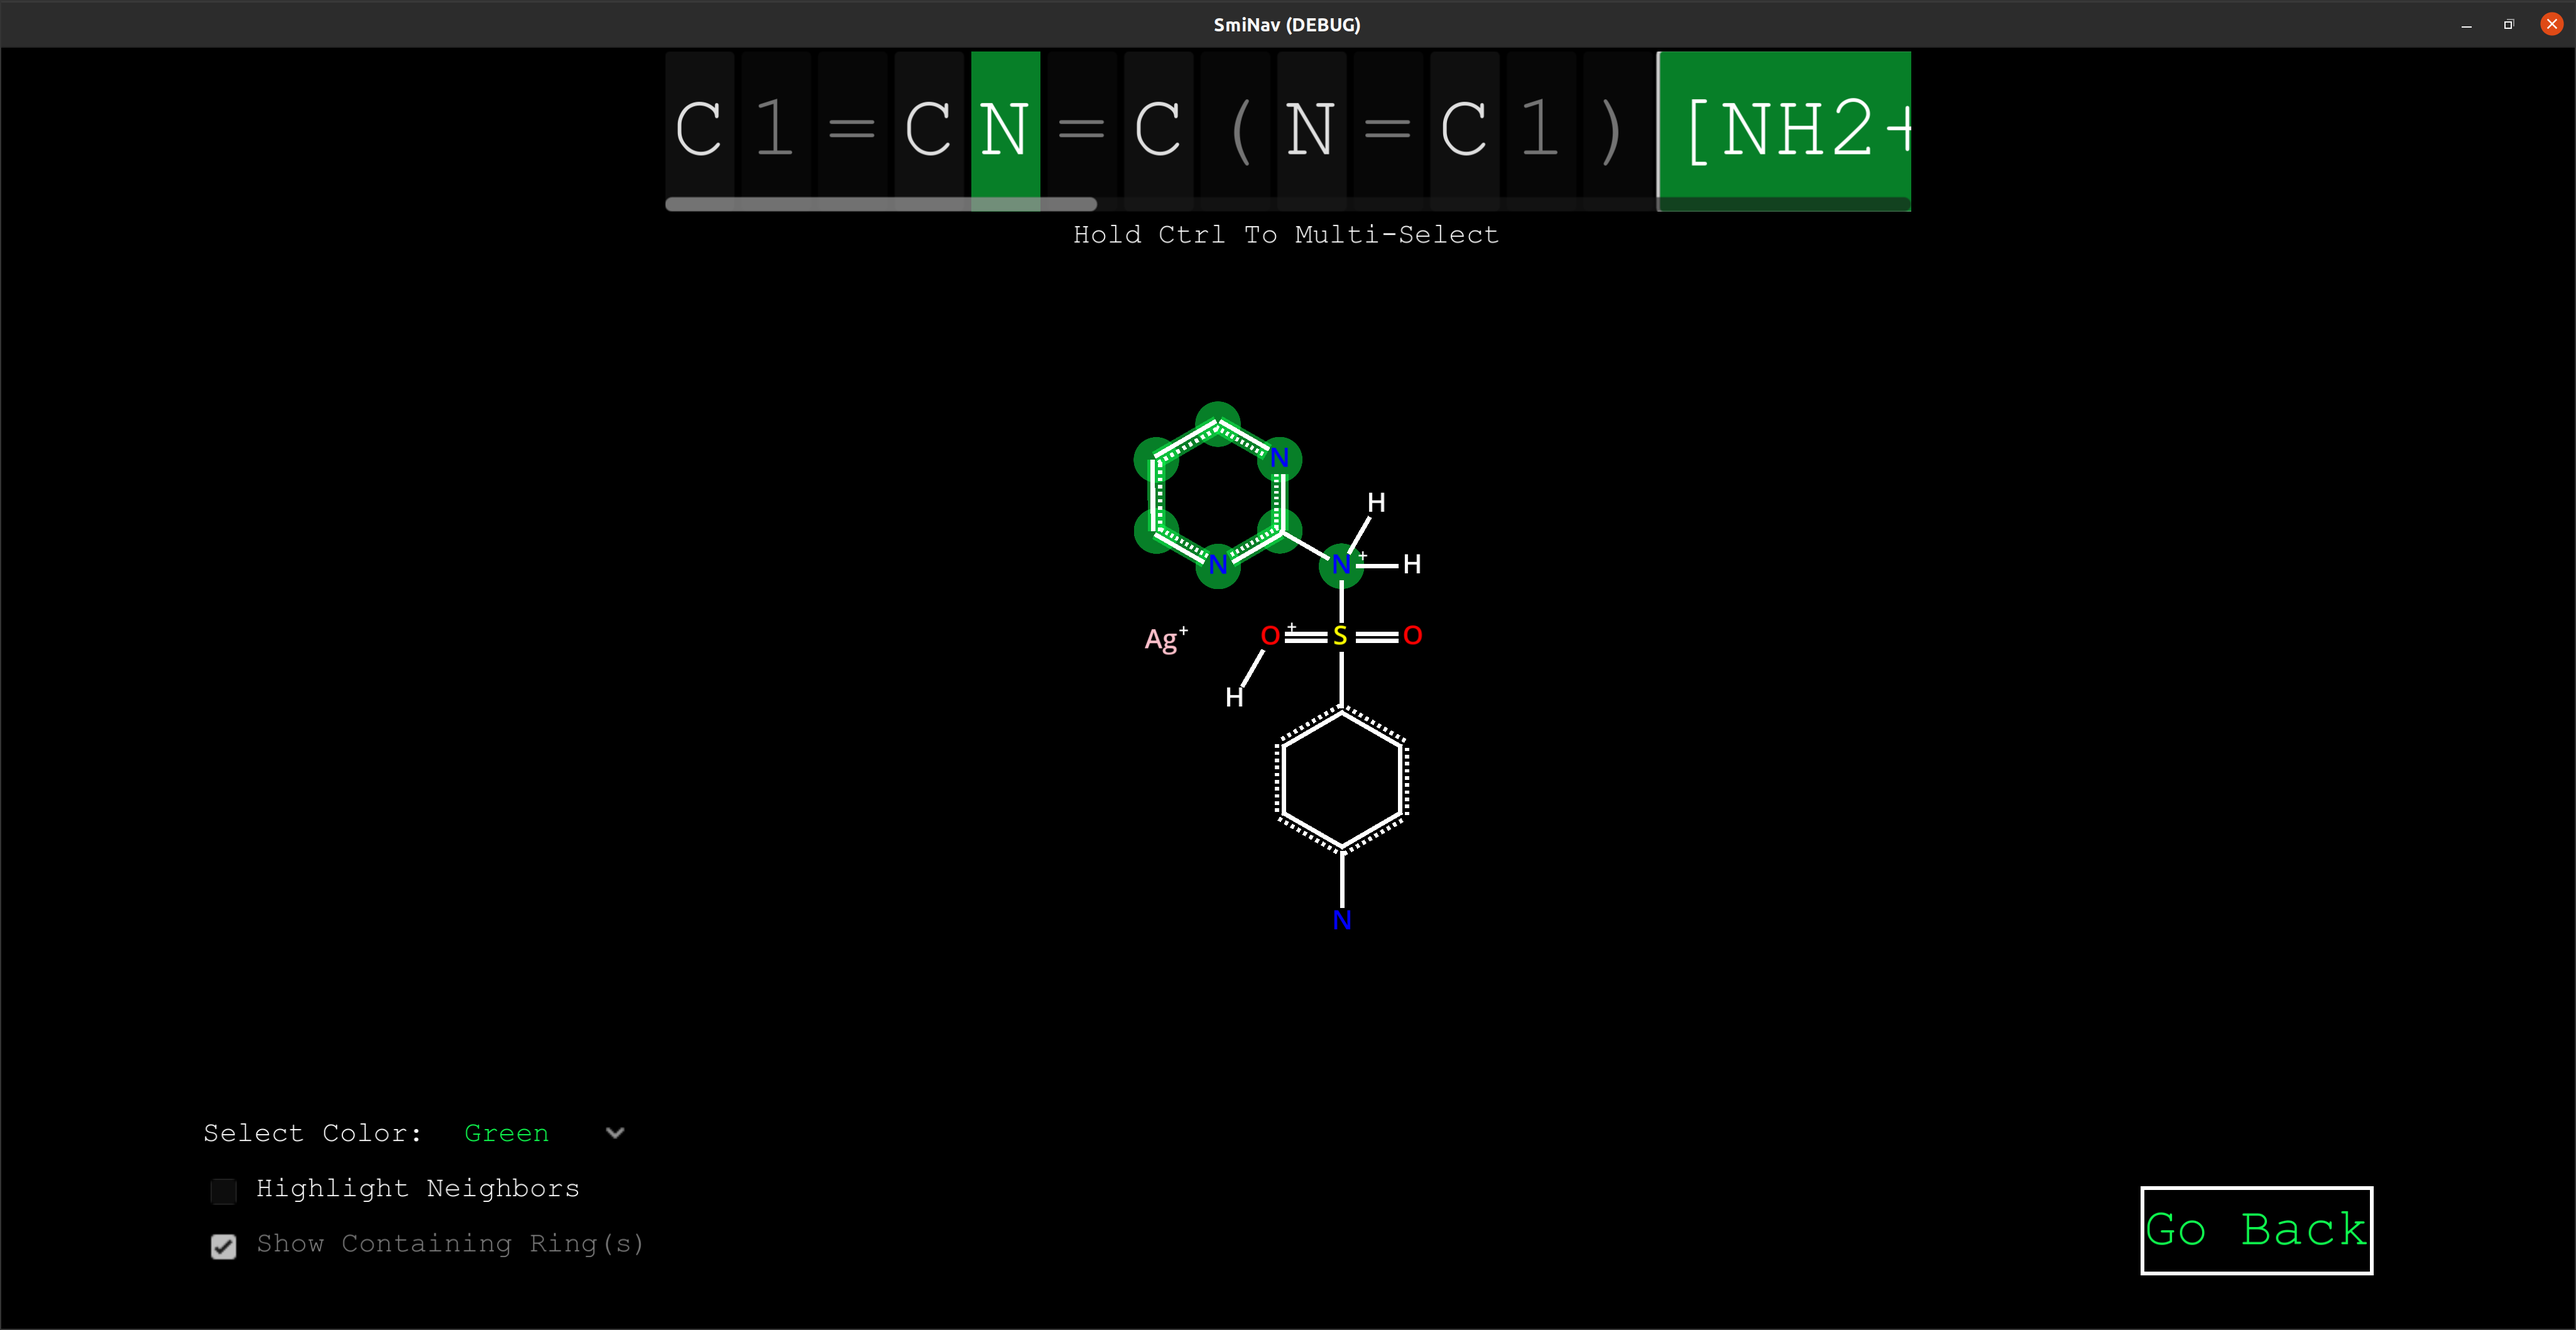
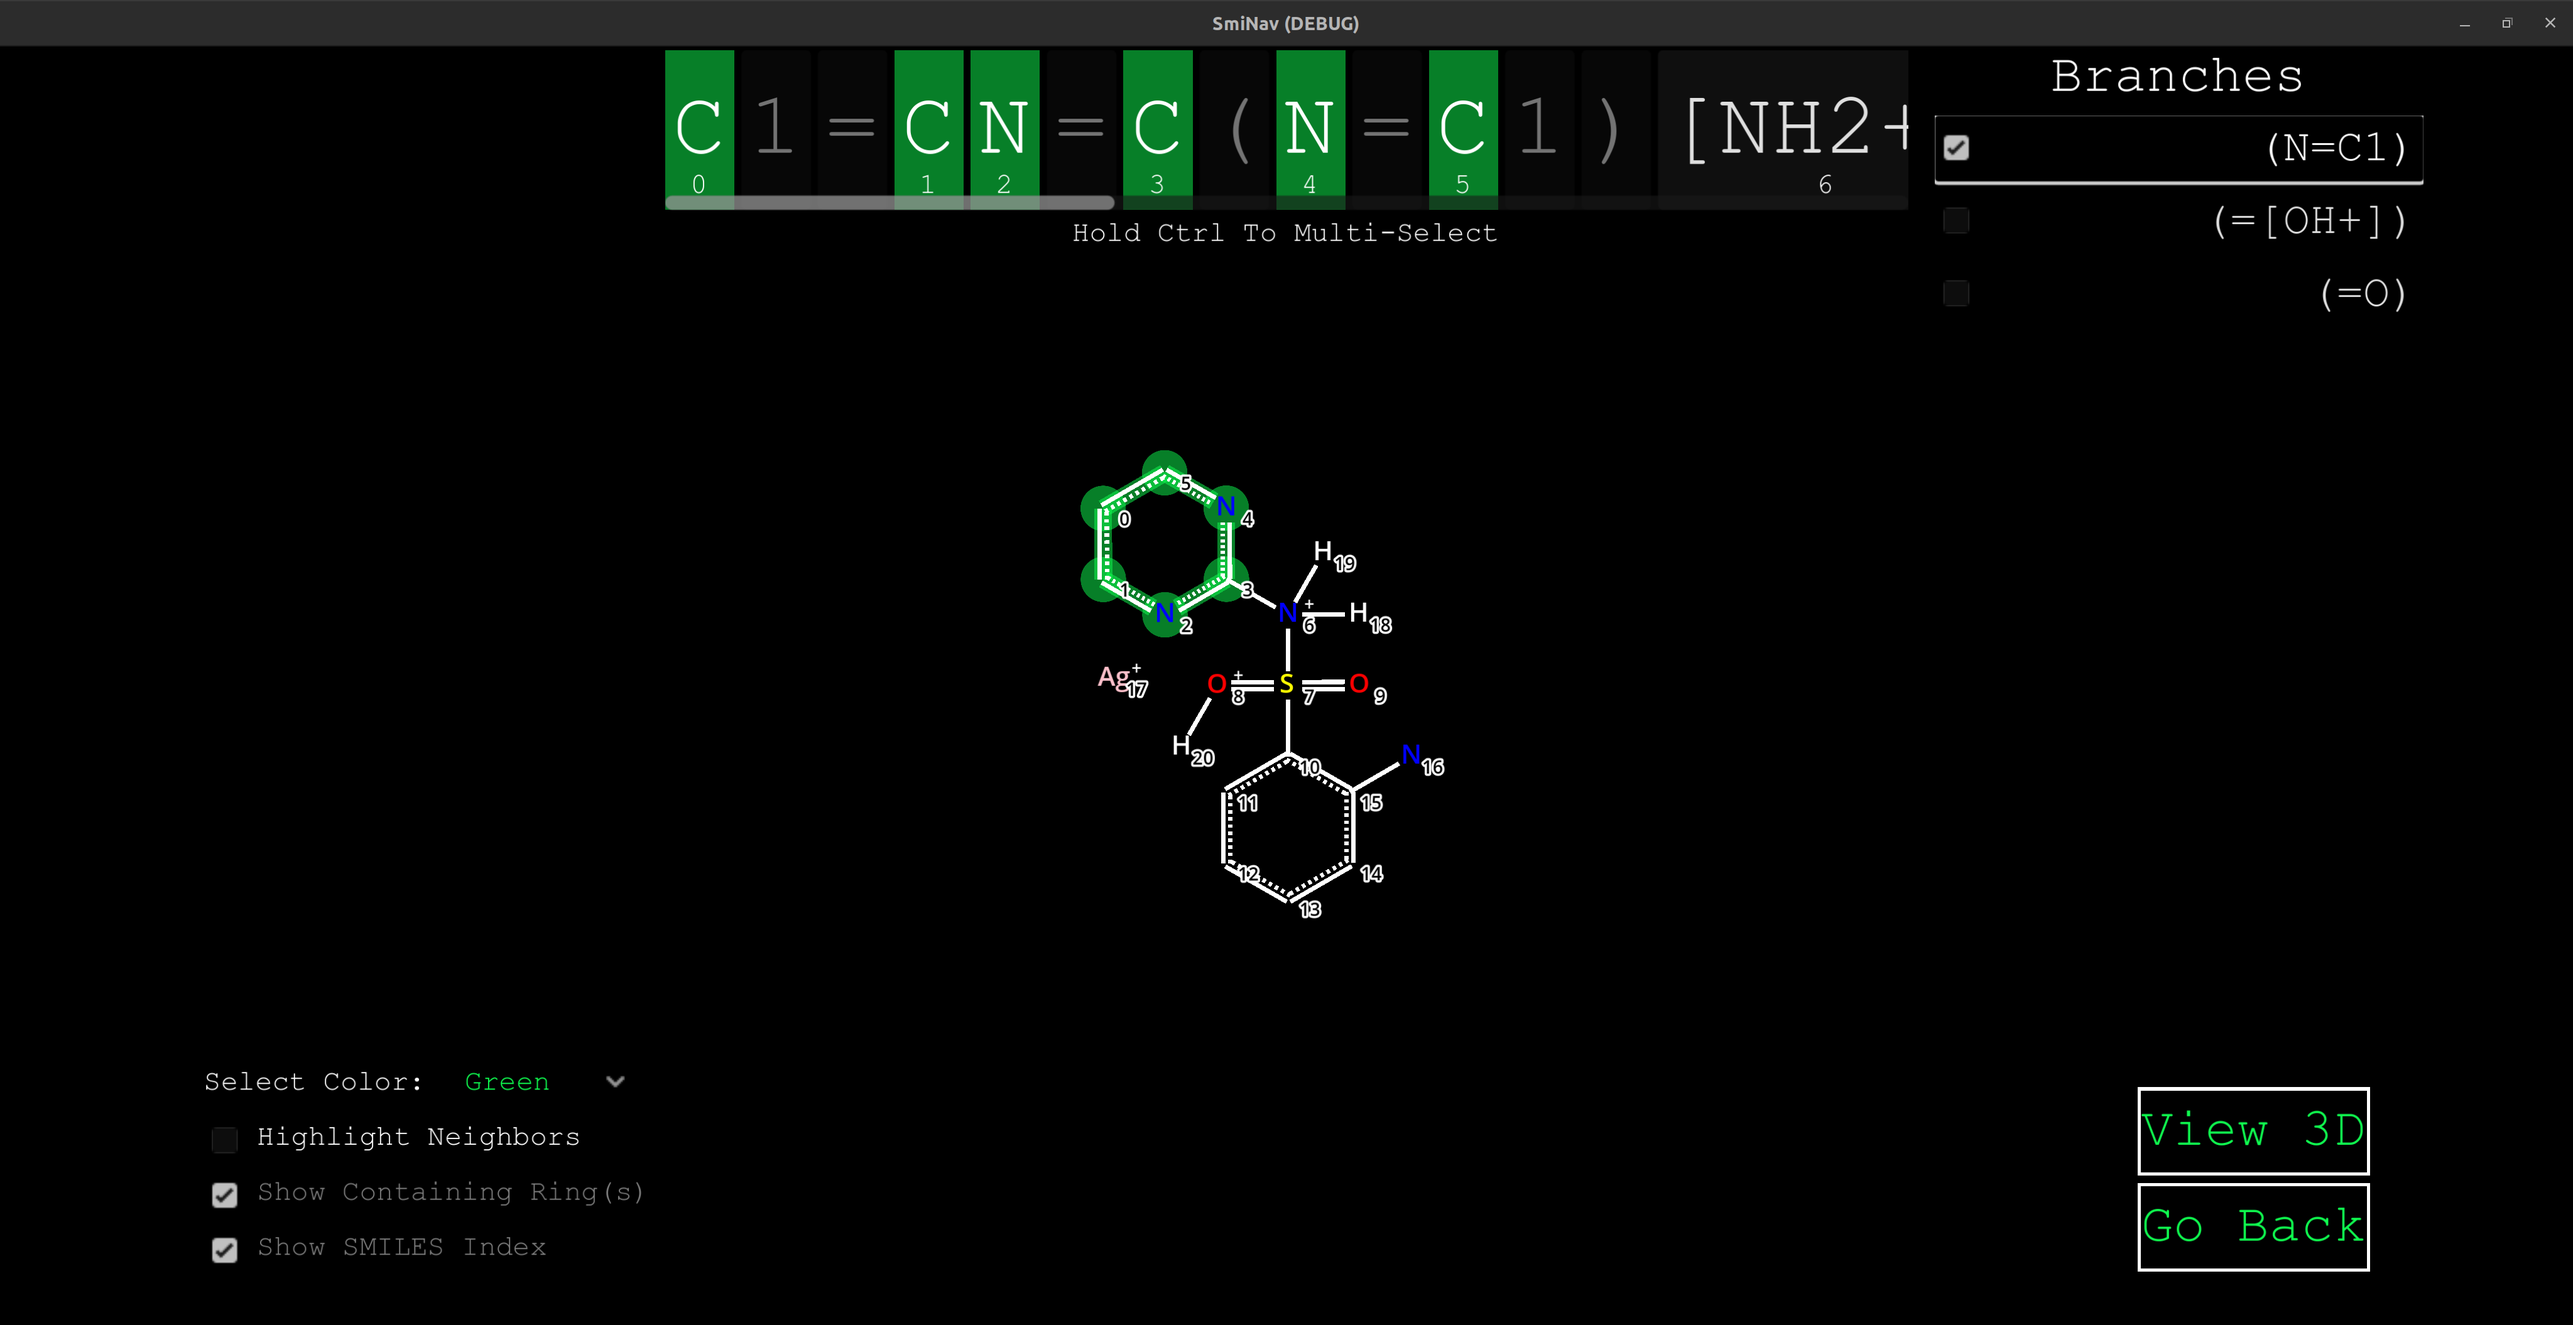
Update SmiNav README with new features

diff --git a/README.md b/README.md
@@ -3,9 +3,17 @@
 
 SmiNav (SMILES Navigator) is a GUI visualizer for parts of the SMILES syntax (atoms, neighbors, and rings). It was inspired by Andrew Dalke's [smiview](https://hg.sr.ht/~dalke/smiview). It uses the [RDKit](https://www.rdkit.org/) library in Python to parse the SMILES string and return mol coordinates and properties that are then used to create a 2D or 3D visualization of the molecule. The visualization is done using the [Godot game engine](https://godotengine.org/).
 
-To use SmiNav, input a SMILES string, then click on an atom in the string. The corresponding atom in the depiction will then get highlighted. The reverse works as well; that is, click on an atom in the depiction and the corresponding atom in the SMILES string will get highlighted.
+To use SmiNav, input a SMILES string, then click the visualization dimension you wish to view. Upon clicking on an atom in the string, the corresponding atom in the depiction will then get highlighted. The reverse works as well; that is, click on an atom in the depiction and the corresponding atom in the SMILES string will get highlighted.
 
 We did this for fun and to learn how to create interfaces in Godot. Any feedback and bug reports are very much welcome.
+
+## Features
+* 2D and 3D visualization of SMILES strings
+* Interactive highlighting of atoms in the SMILES string and depiction
+* Atom properties (e.g., charge, SMILES Index) are shown in the SMILES string and depiction
+* Ring properties (e.g., aromaticity) and ring closures are shown in the SMILES string and depiction
+* Branches of the SMILES string are shown in the depiction
+* Highlighting of explicit hydrogens in the SMILES string and depiction
 
 ## Main Screen
 
